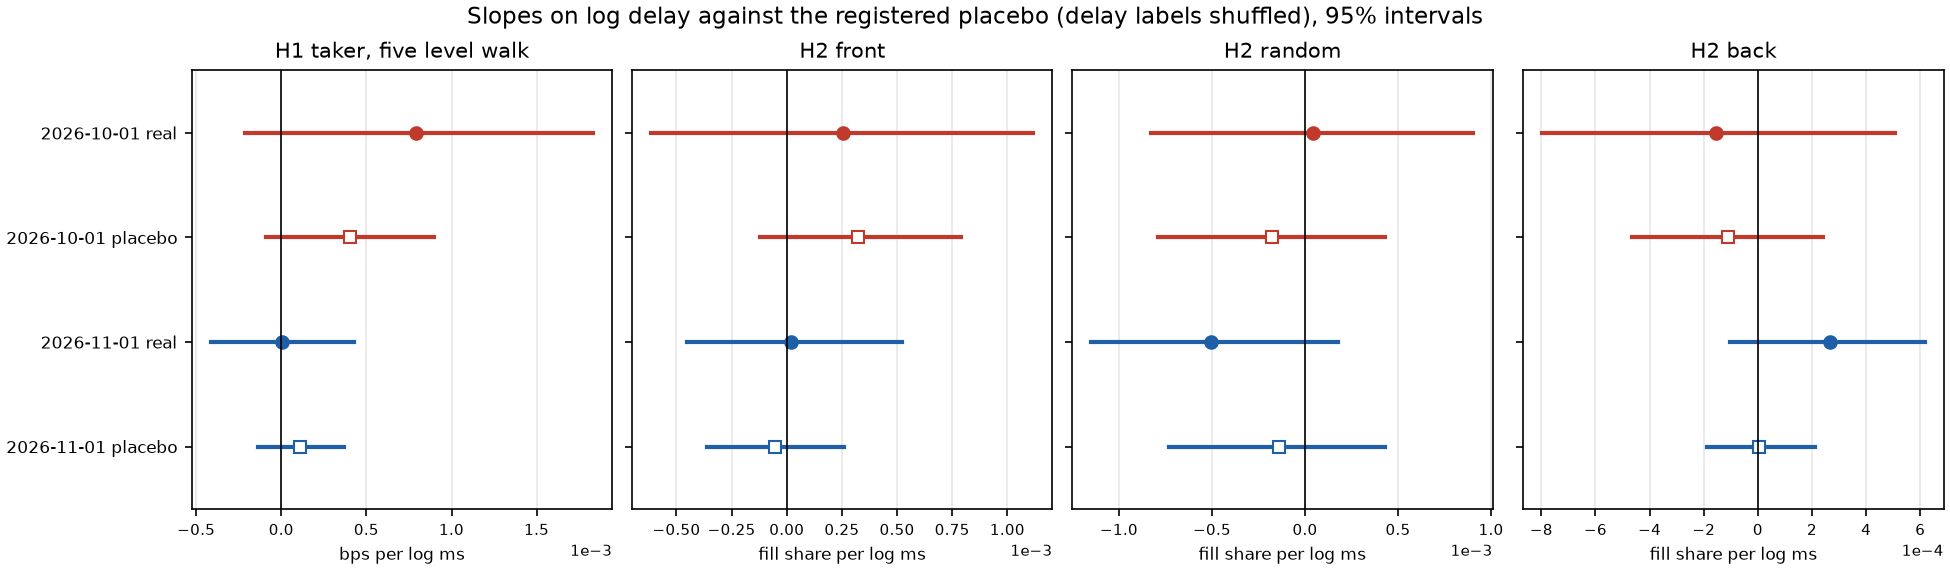
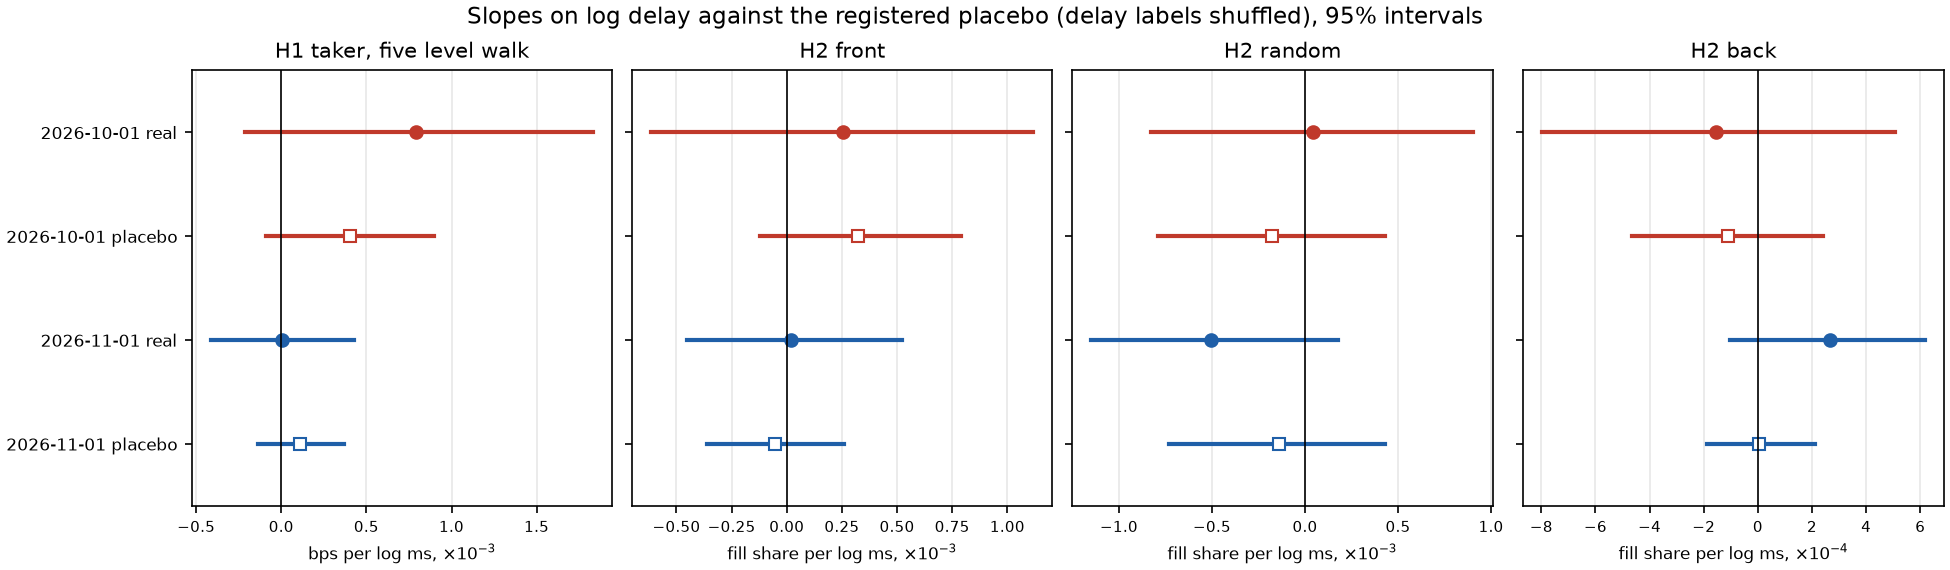
Figures 4 and 5 show their scale on the axis, the same way Figure 3 does. Same points and intervals, and Figures 1 to 3 come out byte identical

diff --git a/01-signal-to-fill/src/s2f/figures.py b/01-signal-to-fill/src/s2f/figures.py
@@ -63,6 +63,22 @@ def _save(fig, name):
     print(f"wrote figures/{name}")
 
 
+def _scale_to_label(fig, axes, labels, fontsize=8):
+    """Moves each axis's x scale from the small offset text in the corner into its label.
+
+    The corner text is easy to miss once GitHub shrinks the image. Tick values are unchanged.
+    """
+    fig.canvas.draw()
+    for ax, label in zip(axes, labels):
+        offset = ax.xaxis.get_major_formatter().get_offset()
+        m = re.fullmatch(r"1e([\u2212-]?\d+)", offset)
+        assert offset == "" or m, f"unexpected axis offset {offset!r} on {label}"
+        ax.xaxis.get_offset_text().set_visible(False)
+        if m:
+            k = int(m.group(1).replace("\u2212", "-"))
+            ax.set_xlabel(f"{label}, $\\times 10^{{{k}}}$", fontsize=fontsize)
+
+
 def fig1_cost_by_delay():
     fig, axes = plt.subplots(1, 2, figsize=(11, 4.8), constrained_layout=True)
     for ax, key, title in ((axes[0], "random", "Random decisions (H1 sample)"),
@@ -141,17 +157,7 @@ def fig3_eight_day_table():
         ax.axis("off")
     axes[len(names)].legend(handles=_legend_handles(), loc="center", fontsize=9, frameon=False)
     fig.suptitle("Eight day table, estimate and 95% block bootstrap interval for each day", fontsize=12)
-    # the scale goes into the axis label instead of the small offset text in the corner,
-    # which is easy to miss once GitHub shrinks the image. Tick values are unchanged.
-    fig.canvas.draw()
-    for ax, name in zip(axes, names):
-        offset = ax.xaxis.get_major_formatter().get_offset()
-        m = re.fullmatch(r"1e([\u2212-]?\d+)", offset)
-        assert offset == "" or m, f"unexpected axis offset {offset!r} on {name}"
-        ax.xaxis.get_offset_text().set_visible(False)
-        if m:
-            k = int(m.group(1).replace("\u2212", "-"))
-            ax.set_xlabel(f"{units[name.split()[0]]}, $\\times 10^{{{k}}}$", fontsize=8)
+    _scale_to_label(fig, axes, [units[name.split()[0]] for name in names])
     _save(fig, "fig3_eight_day_table.png")
 
 
@@ -191,6 +197,7 @@ def fig4_placebos():
         ax.grid(alpha=0.3, axis="x")
     fig.suptitle("Slopes on log delay against the registered placebo (delay labels shuffled), 95% intervals",
                  fontsize=11)
+    _scale_to_label(fig, axes, [unit for _, unit in panels])
     _save(fig, "fig4_placebos.png")
 
 
@@ -213,6 +220,7 @@ def fig5_placebo_calibration():
     axes[0].set_ylabel("shuffles")
     axes[0].legend(fontsize=7, loc="upper left")
     fig.suptitle(f"H2 placebo over 200 shuffles on the dev day {DEV_DAY} (exploratory)", fontsize=11)
+    _scale_to_label(fig, axes, ["placebo H2 slope (fill share per log ms)"] * len(axes))
     _save(fig, "fig5_placebo_calibration.png")
 
 
